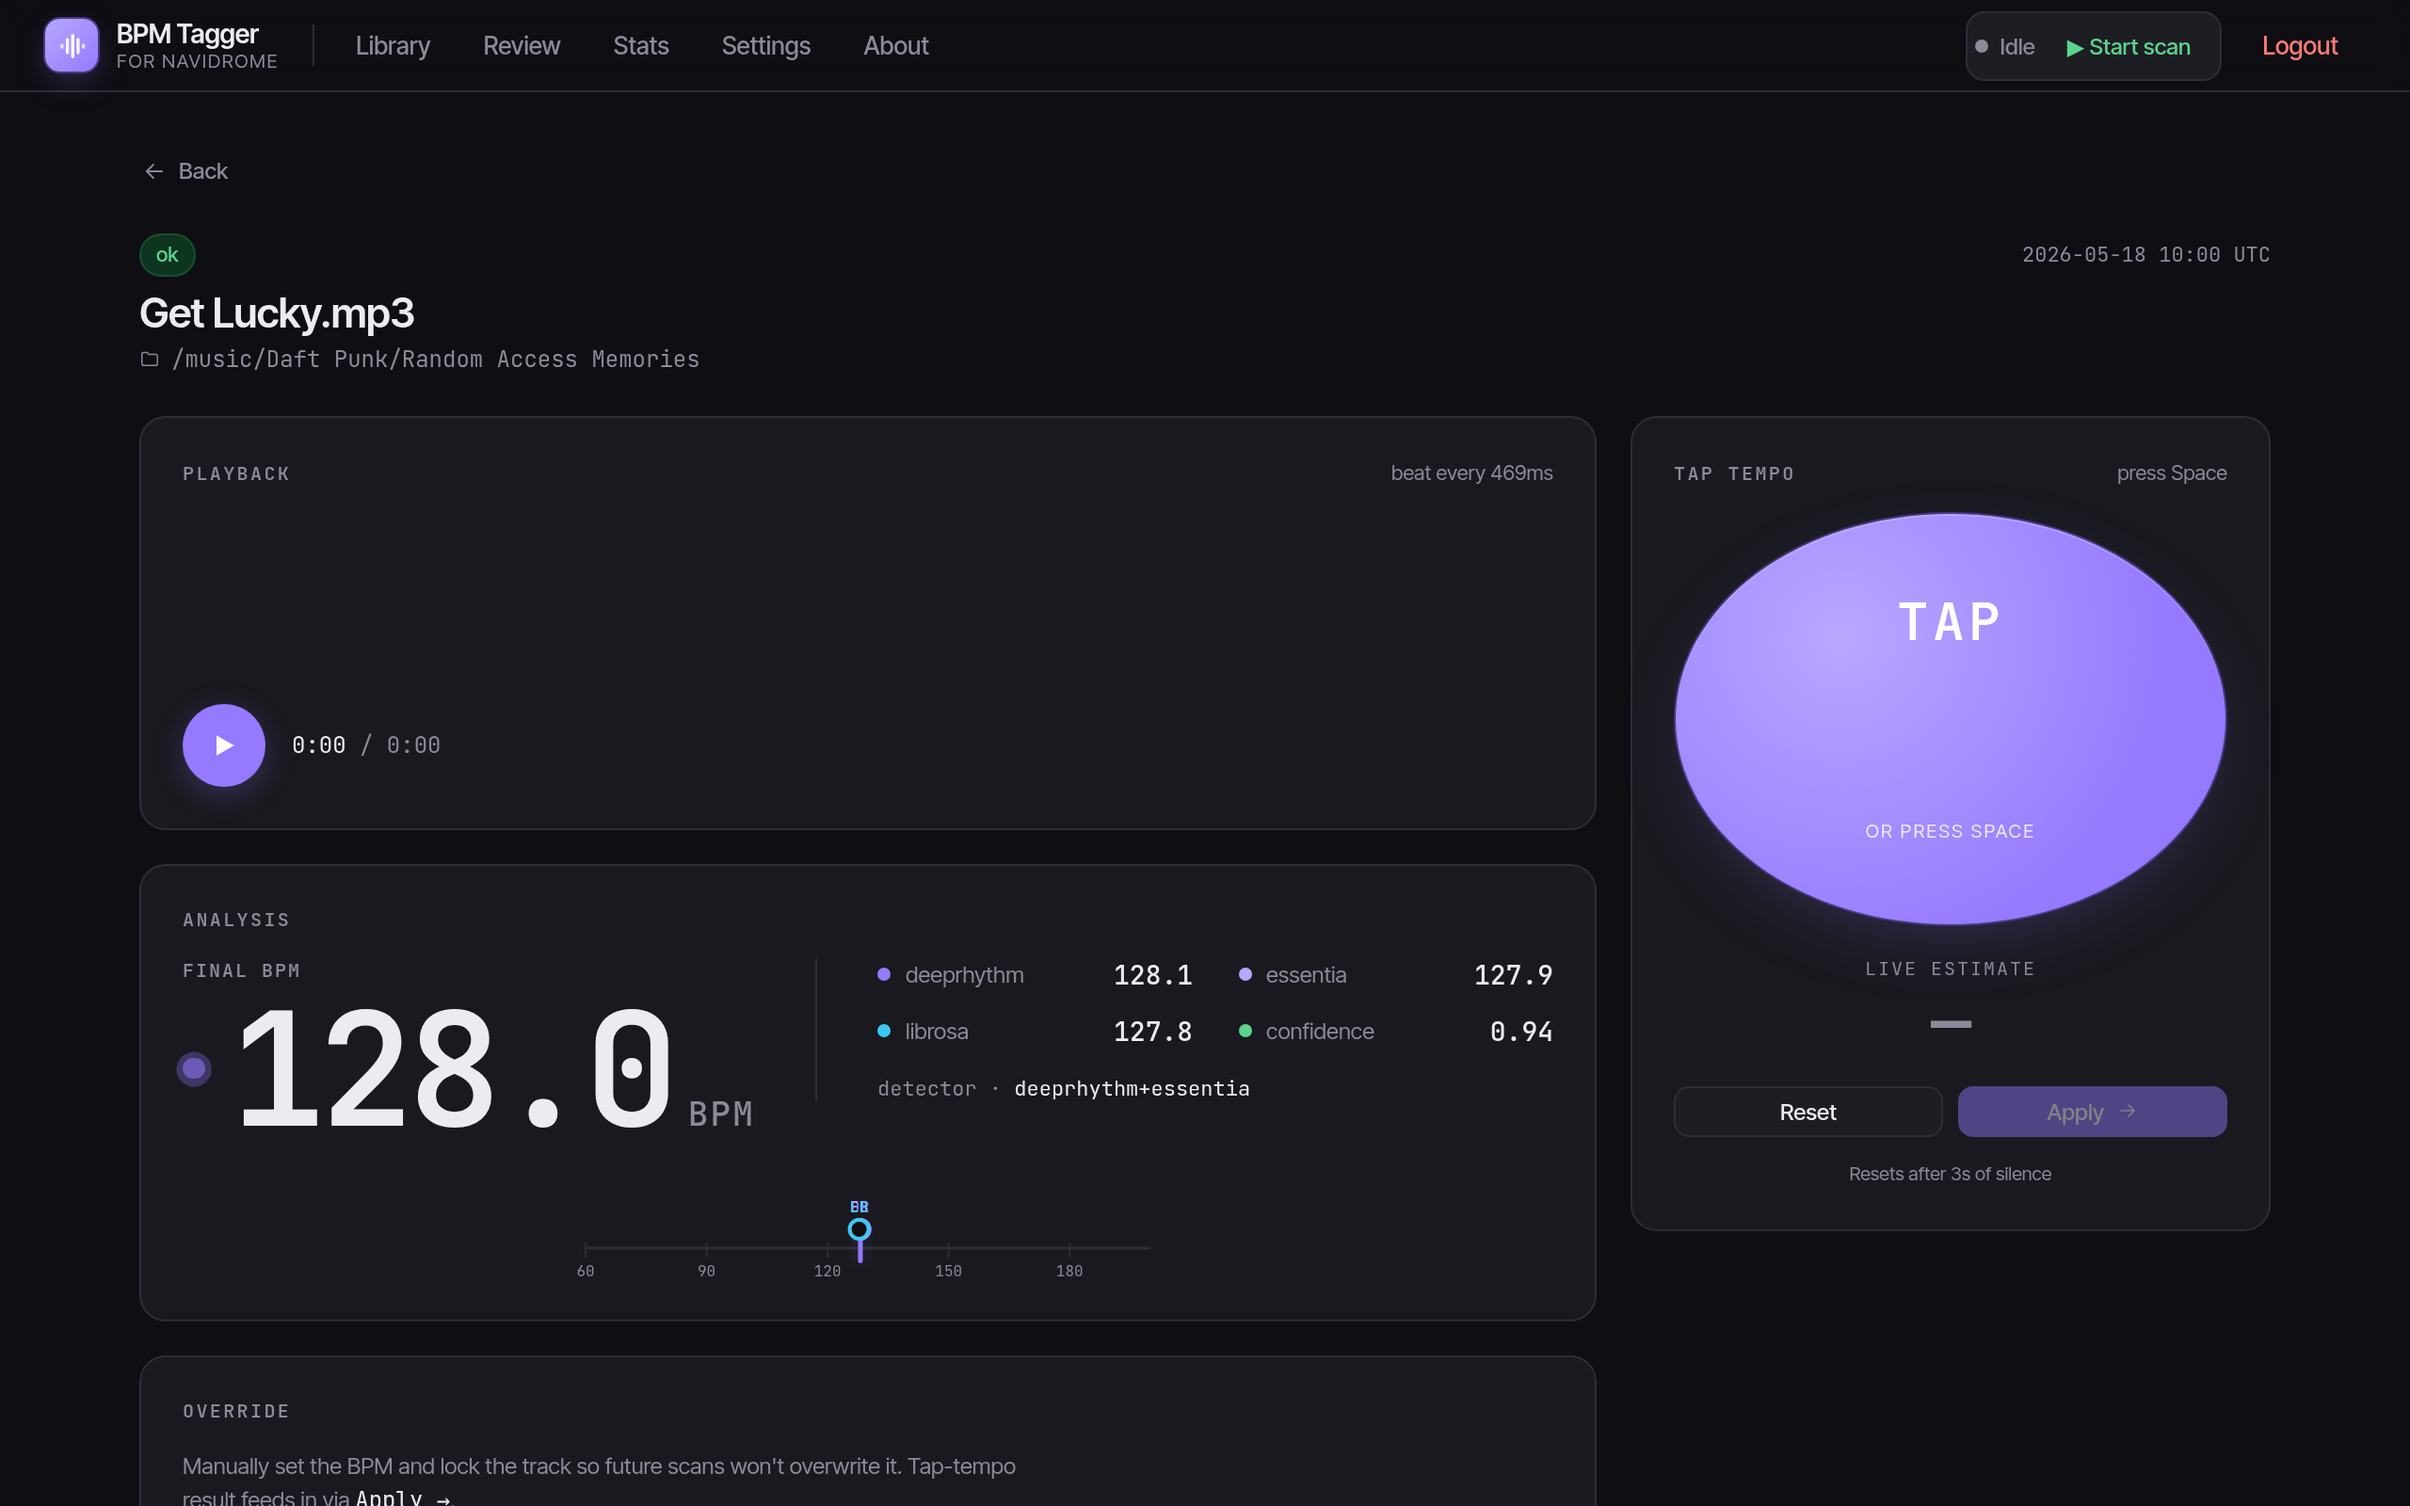
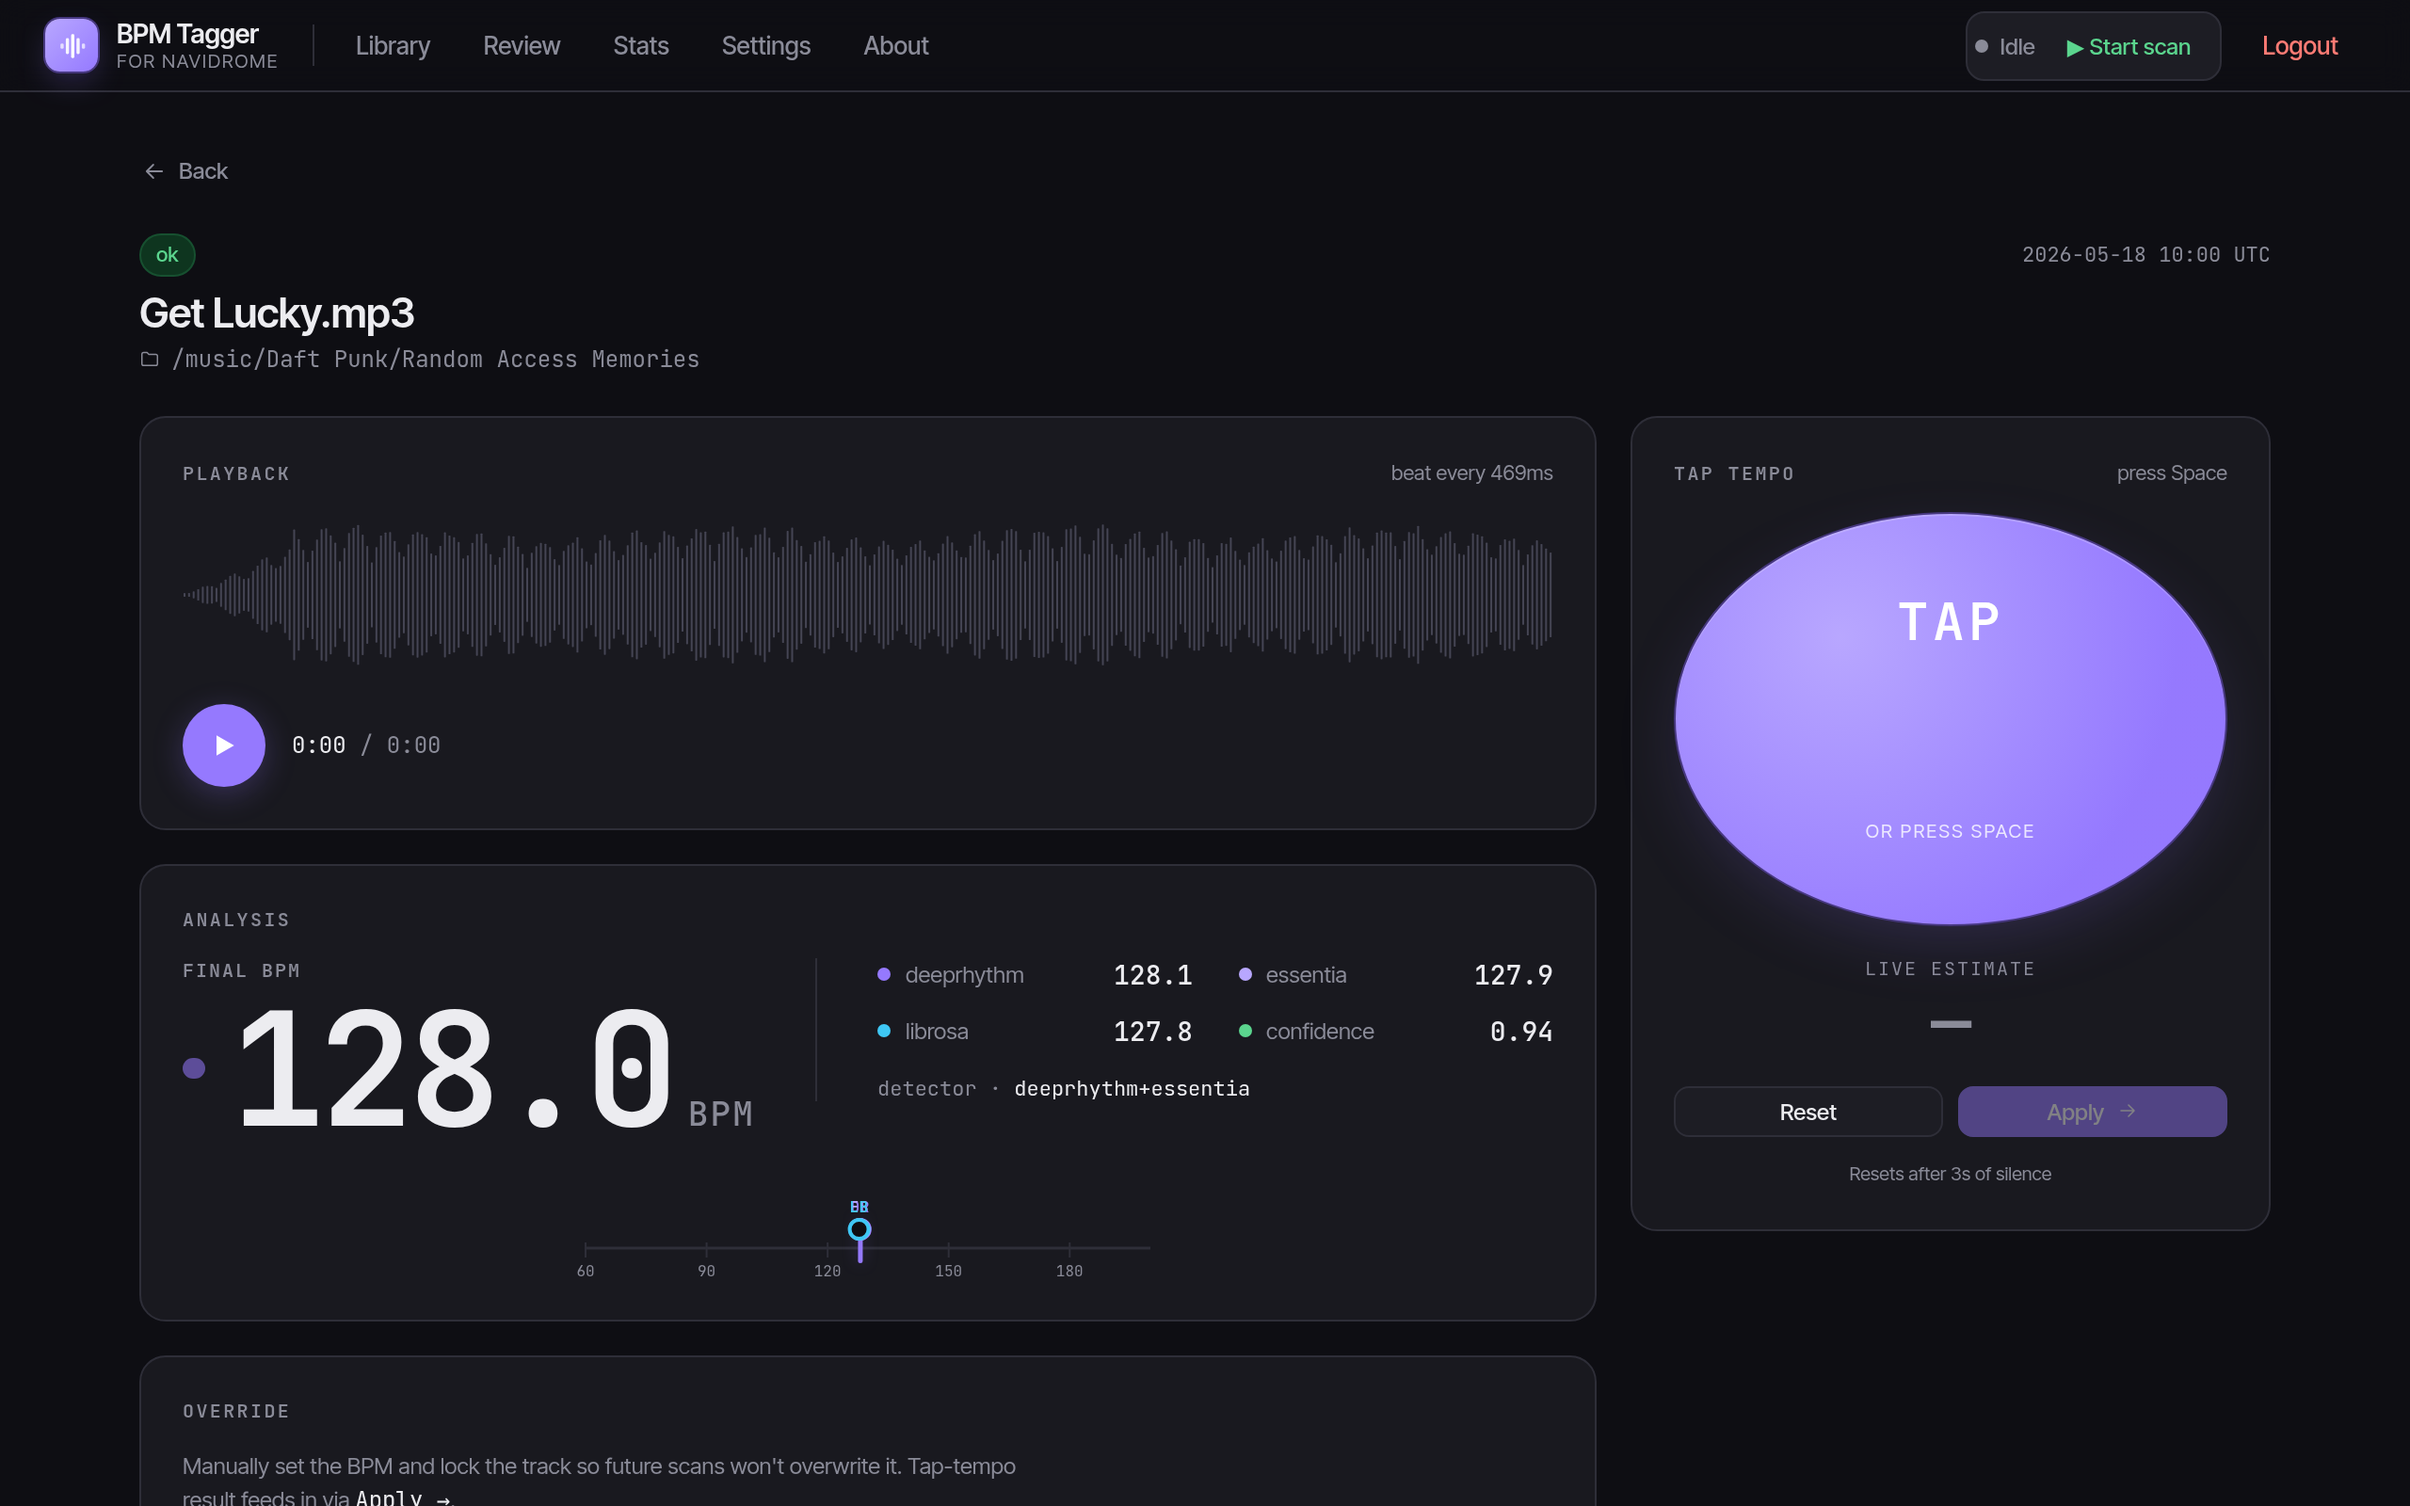
Add waveform to track detail screenshot; reorder README grid
- Seeded fake waveform peaks for the demo track and retook the
  track detail screenshot so the canvas waveform is visible
- Reordered README screenshot grid to follow the user journey:
  Login → Library → Track detail → Review → Stats → Settings

https://claude.ai/code/session_01MQpXGdtukY4CqNtCSmrQKG

Changed region(s): [[0.0938, 0.3438, 0.6562, 0.4375], [0.0625, 0.6875, 0.0938, 0.7188]]

diff --git a/README.md b/README.md
@@ -17,17 +17,17 @@ Automatically detects the BPM of every song in your [Navidrome](https://www.navi
 
 ## Screenshots
 
-| Library | Review queue |
+| Login | Library |
 |---|---|
-| ![Library](docs/screenshots/02-library.png) | ![Review](docs/screenshots/04-review.png) |
+| ![Login](docs/screenshots/01-login.png) | ![Library](docs/screenshots/02-library.png) |
 
-| Track detail | Statistics |
+| Track detail | Review queue |
 |---|---|
-| ![Track detail](docs/screenshots/05-track-detail.png) | ![Stats](docs/screenshots/06-stats.png) |
+| ![Track detail](docs/screenshots/05-track-detail.png) | ![Review](docs/screenshots/04-review.png) |
 
-| Settings | Login |
+| Statistics | Settings |
 |---|---|
-| ![Settings](docs/screenshots/07-settings.png) | ![Login](docs/screenshots/01-login.png) |
+| ![Stats](docs/screenshots/06-stats.png) | ![Settings](docs/screenshots/07-settings.png) |
 
 ## Features
 
